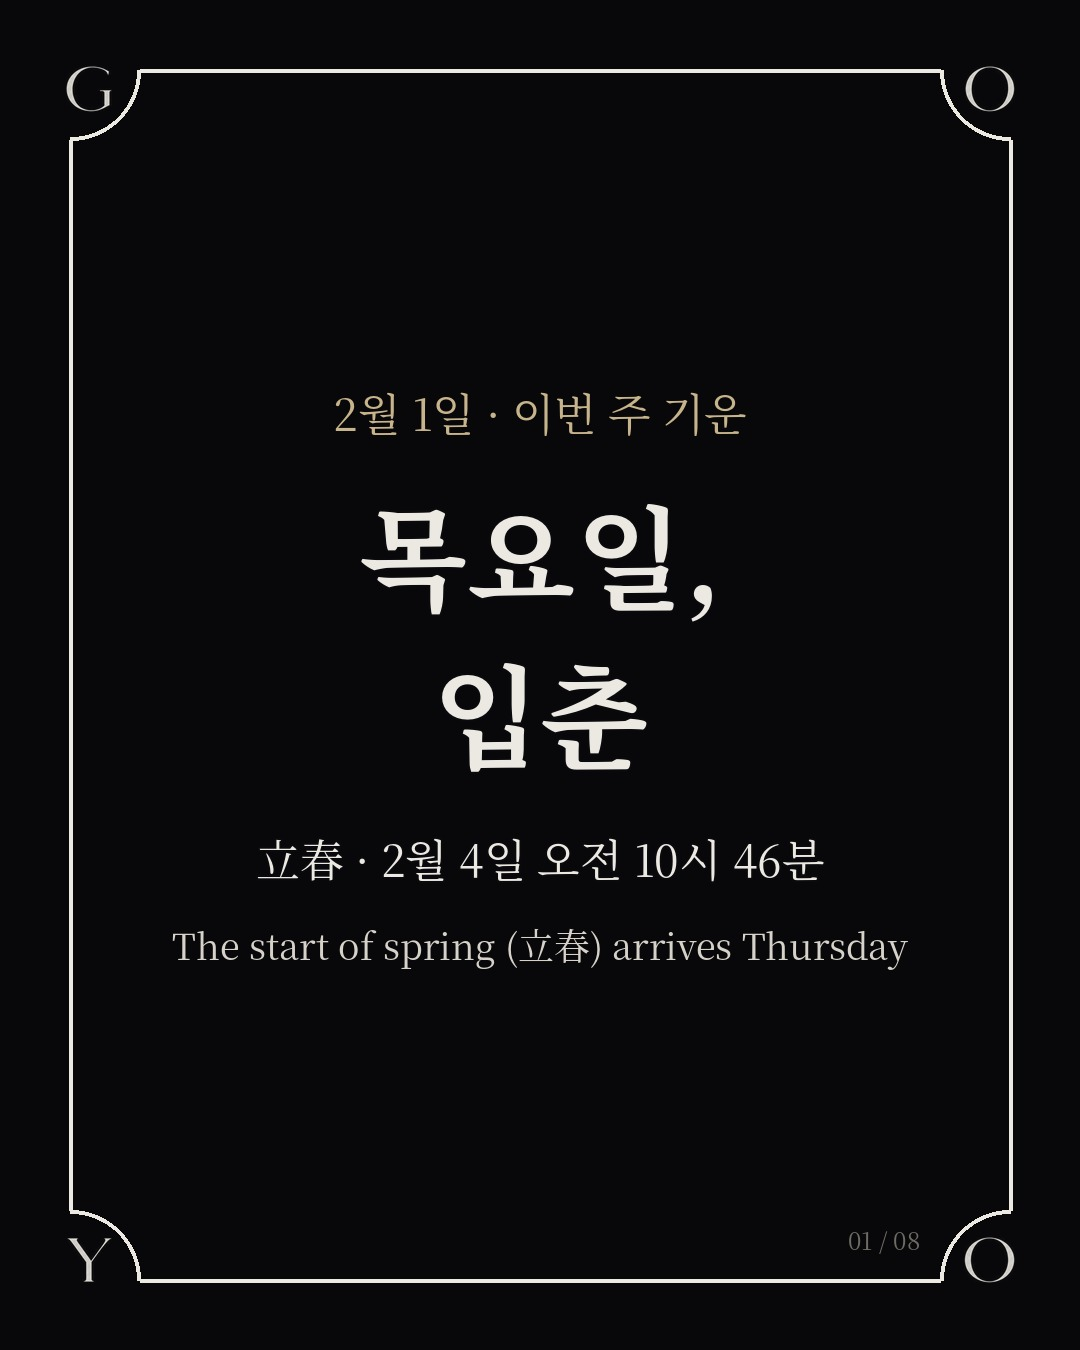
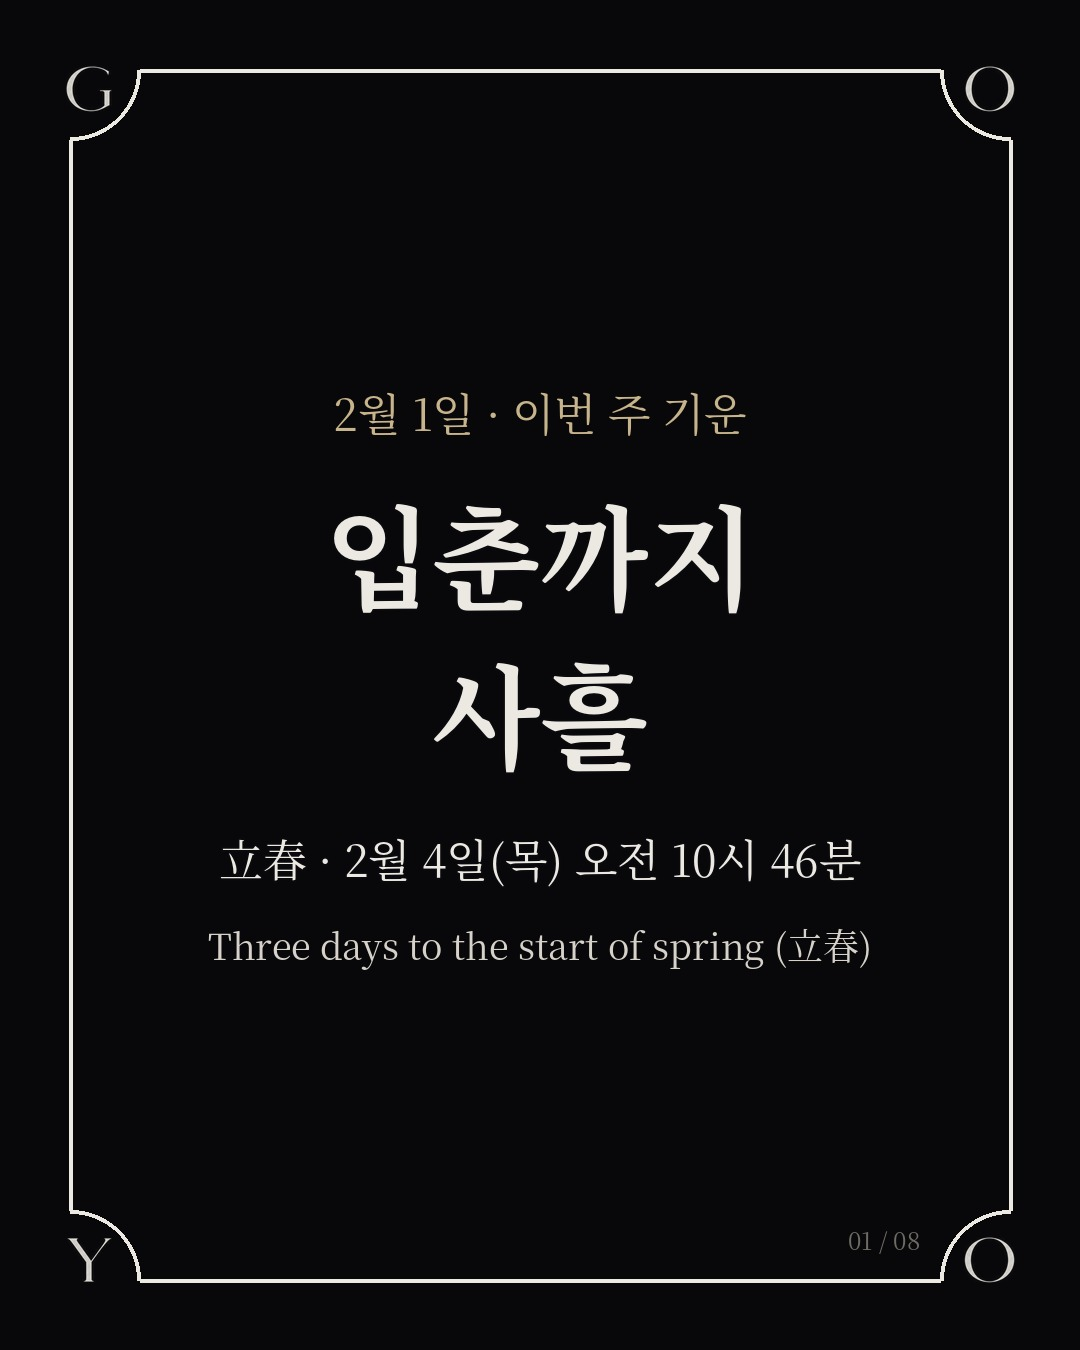
2/1 이번 주 입춘: 「입춘까지 사흘」로 첫 장·7장·캡션 고침, 2/4 13시 유튜브 문장과 겹침 피함 (승인 전)
Claude-Session: https://claude.ai/code/session_01YKKUv5W4Y1G1o2h4KJ6tQ6

Changed region(s): [[0.3056, 0.3733, 0.7028, 0.5911], [0.1528, 0.6844, 0.825, 0.7156], [0.2139, 0.6222, 0.7944, 0.6533]]

diff --git a/jeongmi/build.py b/jeongmi/build.py
@@ -1638,8 +1638,8 @@ The music is Potting Shed from Five Kinds of Quiet · 己土 Yin Earth (Gito). L
 P['0201'] = dict(
  music='정화',
  slides=[
-  S([T('2월 1일 · 이번 주 기운', 44, GOLD, gap=30), T('목요일,\n입춘', 112, bold=True, gap=36),
-     T('立春 · 2월 4일 오전 10시 46분', 44, gap=30), T('The start of spring (立春) arrives Thursday', 36, EN, gap=0)]),
+  S([T('2월 1일 · 이번 주 기운', 44, GOLD, gap=30), T('입춘까지\n사흘', 112, bold=True, gap=36),
+     T('立春 · 2월 4일(목) 오전 10시 46분', 44, gap=30), T('Three days to the start of spring (立春)', 36, EN, gap=0)]),
   S([T('입춘은\n스물네 절기의 첫째예요.', 60, bold=True, gap=30),
      T('해가 하늘길의 315도에 이르는 때.', 44, gap=26),
      T('이 순간 사주의 해와 달이 함께 바뀌어요.\n병오년 신축월 → 정미년 임인월', 42, GOLD, gap=34),
@@ -1661,16 +1661,16 @@ P['0201'] = dict(
      T('날마다 앞 글자가\n쇠 → 물 → 나무 → 불 순서로 흘러요.', 44, gap=26),
      T('입춘 날은 갑인일, 나무 두 글자로 봄을 열고\n설날 2월 7일은 정사일이에요.', 38, GOLD, gap=34),
      T('This week, the first characters of the day pillars run\nMetal → Water → Wood → Fire. Spring begins on a 甲寅 day,\nall Wood, and Lunar New Year (Feb 7) is a 丁巳 day.', 24, EN, gap=0)], tag='이번 주 일진'),
-  S([T('목요일 오전 10시 46분부터\n정미년이에요.', 56, bold=True, gap=30),
+  S([T('사흘 뒤,\n사주의 해가 바뀌어요.', 56, bold=True, gap=30),
      T('첫 글자는\n가까운 곳을 오래 비추는 등불, 정화.', 46, gap=28),
      T('입춘 무렵 태어나는 아기라면\n시각에 따라 해가 갈려요(1월 25일 게시물).', 38, GOLD, gap=34),
-     T('From 10:46 a.m. Thursday, it is the 丁未 year. Its first\ncharacter is 丁火 Yin Fire (Jeonghwa), a lamp that burns\nlong and lights what is near. For babies born that day, the\nbirth time decides the year (see our Jan 25 post).', 24, EN, gap=0)], tag='정미년의 첫 글자'),
+     T('In three days, at 10:46 a.m. Thursday, the Saju year\nturns to the 丁未 year. Its first character is 丁火 Yin Fire\n(Jeonghwa), a lamp that burns long and lights what is near.\nFor babies born that day, the birth time decides the year\n(see our Jan 25 post).', 24, EN, gap=0)], tag='정미년의 첫 글자'),
   S([T('다섯 가지 고요', 56, bold=True, gap=10), T('정화 편', 96, bold=True, gap=34),
      T('가까운 곳을 오래 비추는\n등불 같은 소리예요.', 50, gap=24), T('오늘 고른 곡은 『Window Candle』,\n창가에 켜 둔 작은 불빛이에요.', 42, gap=30),
      T('음악은 프로필 링크에서', 46, GOLD, gap=30),
      T('Five Kinds of Quiet · Yin Fire: music like a lamp close by.\nToday\'s track is Window Candle.\nListen at the link in bio.', 28, EN, gap=0)], tag='새해 첫 글자의 소리'),
  ],
- caption="""목요일, 입춘이에요.
+ caption="""입춘까지 사흘 남았어요.
 
 2월 4일 오전 10시 46분, 입춘(立春)이 들어요. 입춘은 스물네 절기의 첫째로, 해가 하늘길의 315도에 이르는 때예요. 이 순간 사주의 해와 달이 함께 바뀌어요. 병오년 신축월에서 정미년 임인월로요.
 
@@ -1682,14 +1682,14 @@ P['0201'] = dict(
 
 이번 주 일진은 신해 → 임자 → 계축 → 갑인 → 을묘 → 병진 → 정사. 날마다 앞 글자가 쇠 → 물 → 나무 → 불 순서로 흘러요. 입춘 날은 갑인일, 나무 두 글자로 봄을 열고, 설날 2월 7일은 정사일이에요.
 
-목요일 오전 10시 46분부터 정미년이에요. 첫 글자는 가까운 곳을 오래 비추는 등불, 정화예요. 입춘 무렵 태어나는 아기라면 시각에 따라 해가 갈려요(1월 25일 게시물).
+사흘 뒤 목요일 오전 10시 46분, 사주의 해가 정미년으로 바뀌어요. 첫 글자는 가까운 곳을 오래 비추는 등불, 정화예요. 입춘 무렵 태어나는 아기라면 시각에 따라 해가 갈려요(1월 25일 게시물).
 
 새해 첫 글자의 소리, 『다섯 가지 고요｜정화(丁火)』. 오늘 고른 곡은 창가에 켜 둔 작은 불빛, 『Window Candle』이에요. 프로필 링크에서 들을 수 있어요.
 
 절기 시각: 한국천문연구원 / 입춘 풍속: 한국민족문화대백과사전 외
 
 · English ·
-The start of spring (立春) arrives Thursday.
+Three days to the start of spring (立春).
 
 The start of spring falls at 10:46 a.m. on February 4 (Korea Standard Time). It is the first of the twenty-four solar terms, when the sun reaches 315° on its yearly path. At that moment, the Saju year and month change together: from the 丙午 year (Byeong-o) · Yang Fire · Noon Fire to the 丁未 year (Jeongmi) · Yin Fire · Afternoon Earth, and from the 辛丑 month to the 壬寅 month.
 
@@ -1701,7 +1701,7 @@ In the old days, on the start of spring, people ate five pungent greens (osinban
 
 This week, the first characters of the day pillars run Metal → Water → Wood → Fire. Spring begins on a 甲寅 day, all Wood, and Lunar New Year is a 丁巳 day.
 
-From 10:46 a.m. Thursday, it is the 丁未 year. Its first character is 丁火 Yin Fire (Jeonghwa), a lamp that burns long and lights what is near. For babies born that day, the birth time decides which year they belong to (see our January 25 post).
+In three days, at 10:46 a.m. Thursday, the Saju year turns to the 丁未 year. Its first character is 丁火 Yin Fire (Jeonghwa), a lamp that burns long and lights what is near. For babies born that day, the birth time decides which year they belong to (see our January 25 post).
 
 The sound of the new year's first character: Five Kinds of Quiet · Yin Fire. Today's track is Window Candle. Listen at the link in bio.
 
